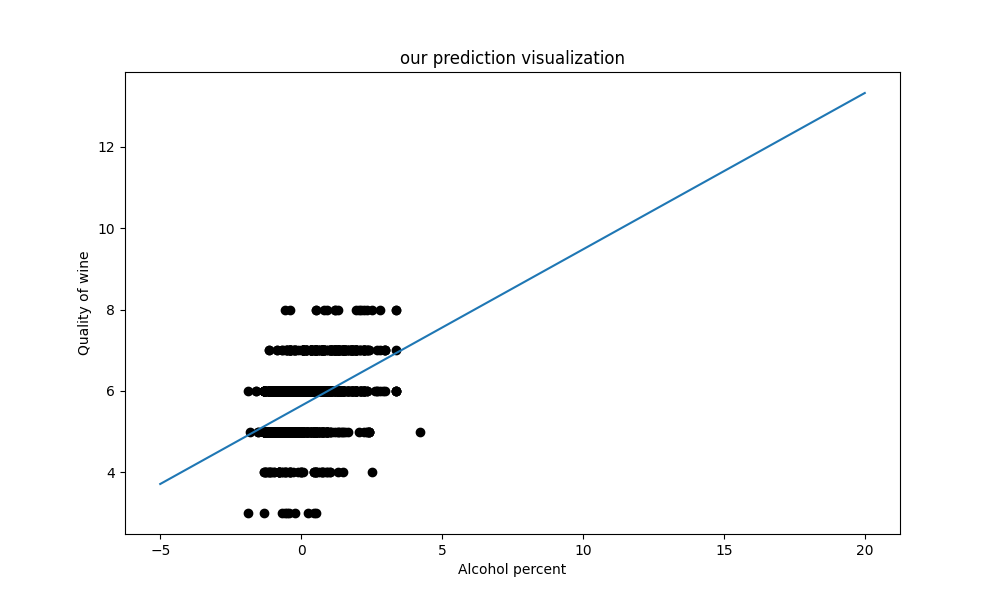
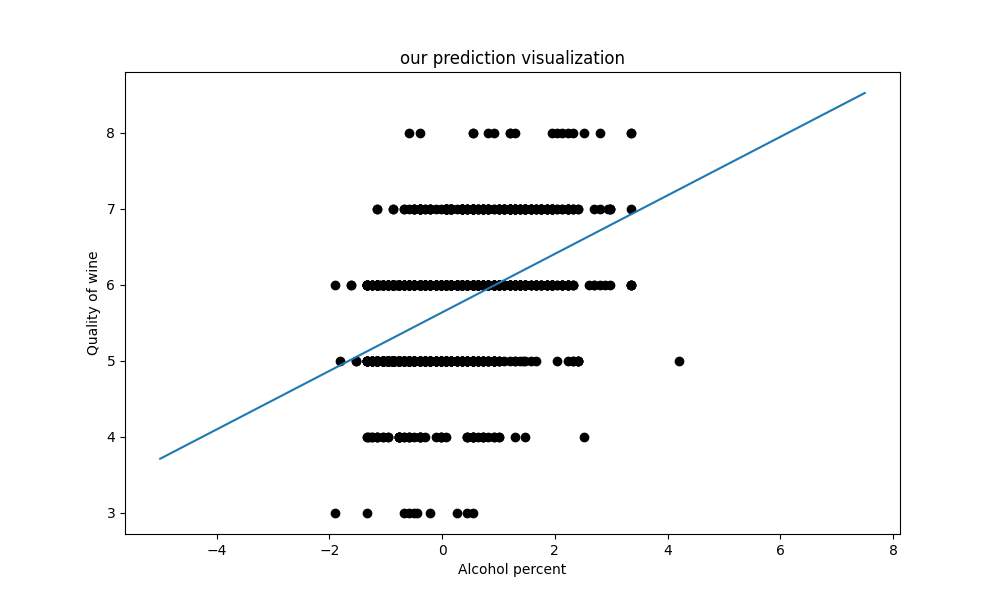
Blueprint add

diff --git a/templates/header.html b/templates/header.html
@@ -18,6 +18,7 @@
       <ul class="nav navbar-nav">
         <li><a href="/dataset">Data</a></li>
         <li><a href="/linear_regression">Linearna regresija</a></li>
+        <li><a href="/polynomial_regression">Polinomijalna regresija</a></li>
         <li><a href="/tvshows/1">TV Shows</a></li>
         <li><a href="/linkovi">Links</a></li>
       </ul>

diff --git a/main.py b/main.py
@@ -10,8 +10,13 @@ import os.path
 
 from methods import *
 
+from regression_linear import reg_lin
+from regression_polynomial import reg_poly
+
 app = Flask(__name__)
 bootstrap = Bootstrap(app)
+app.register_blueprint(reg_lin)
+app.register_blueprint(reg_poly)
 
 links = ['distribution_alcohol', 'distribution_quality',
          'gradient_descen', 'funkcija_troska', 'izgled_regresije']
@@ -105,18 +110,9 @@ def shape():
         link3='shape'
     )
 
-# linearna regresija
-
-
-@app.route('/linear_regression')
-def reg_lin():
-
-    return render_template(
-        'info.html',
-        link1='gradijentni_spust', link2='unakrsna_validacija', title='linear regression')
-
-
 # gradijentni spust
+
+
 @app.route('/gradijentni_spust')
 def gradijentni_spust():
 
@@ -253,7 +249,7 @@ def izgled_regresije():
 
     plt.figure(figsize=(10, 6))
     plt.scatter(x_scaled[:, 1], y, color='black')
-    x = np.linspace(-5, 20, 1000)
+    x = np.linspace(-5, 7.5, 1000)
     s = theta[1] * x + theta[0]
 
     plt.title("our prediction visualization")

diff --git a/regression_polynomial.py b/regression_polynomial.py
@@ -1,0 +1,22 @@
+from flask import Blueprint, render_template, abort
+from jinja2 import TemplateNotFound
+
+reg_poly = Blueprint('regression_polynomial_page', __name__,
+                     template_folder='templates')
+
+
+@reg_poly.route('/', defaults={'page': 'index'})
+@reg_poly.route('/<page>')
+def show(page):
+    try:
+        return render_template(f'pages/{page}.html')
+    except TemplateNotFound:
+        abort(404)
+
+
+@reg_poly.route('/polynomial_regression')
+def polynomial_regression():
+
+    return render_template(
+        'info.html',
+        link1='index', link2='index', title='polynomial regression')

diff --git a/regression_linear.py b/regression_linear.py
@@ -1,0 +1,13 @@
+from flask import Blueprint, render_template, abort
+from jinja2 import TemplateNotFound
+
+reg_lin = Blueprint('regression_linear_page', __name__,
+                    template_folder='templates')
+
+
+@reg_lin.route('/linear_regression')
+def linear_regression():
+
+    return render_template(
+        'info.html',
+        link1='gradijentni_spust', link2='unakrsna_validacija', title='linear regression')
